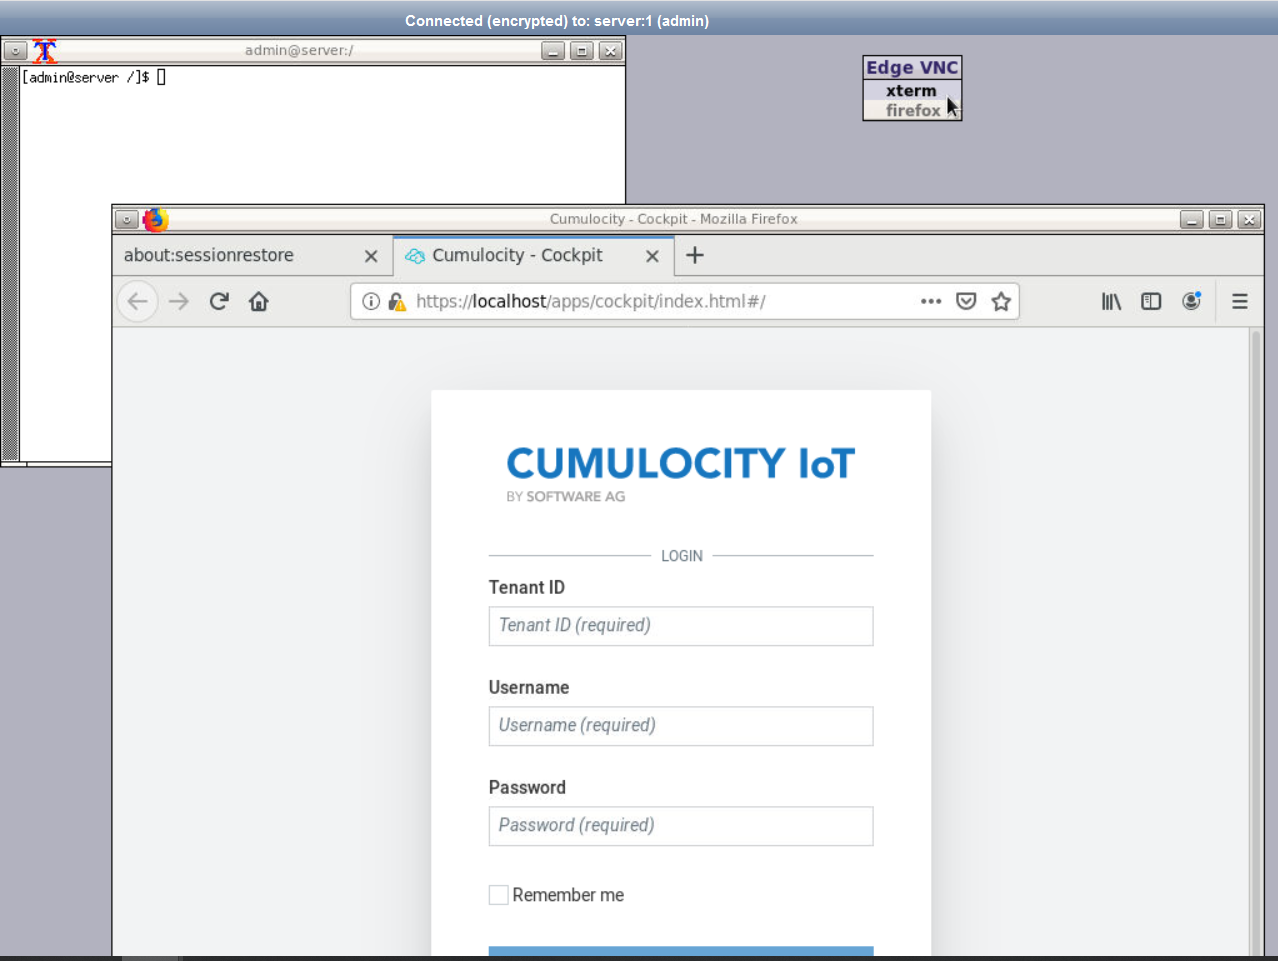
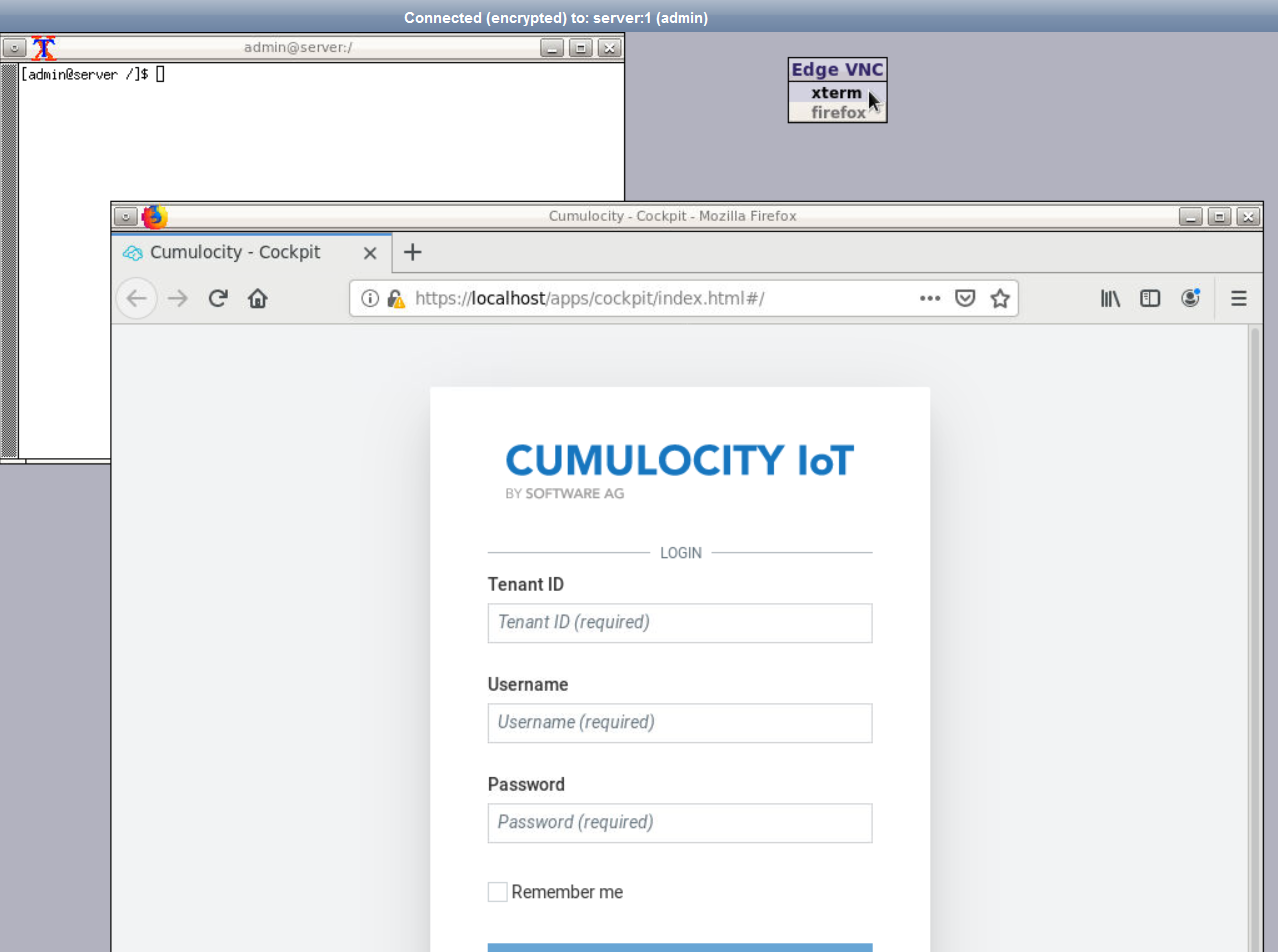
Incorporated comments from Chris and Beate.

diff --git a/content/edge/usage-bundle/connecting-cloud.md b/content/edge/usage-bundle/connecting-cloud.md
@@ -33,7 +33,7 @@ Once the device is connected, the device status changes to **Pending acceptance*
 
 ### Accessing the Edge device from the Cumulocity tenant
 
-The Cumulocity Cloud Remote Access microservice allows you to remotely access the Edge device through a web browser. The remote Edge device is represented as a device in the Device Management application of Cumulocity.
+The Cumulocity Cloud Remote Access microservice allows you to remotely access the Edge device through a web browser. The remote Edge VM is represented as a device in the Device Management application of Cumulocity.
 
 #### Supported protocols
 
@@ -53,11 +53,13 @@ For more information about remote access, see [Cloud Remote Access](/guides/user
 
 ### Accessing the Edge device remotely through VNC
 
-You can access the Edge VM from the Cumulocity tenant by installing the VNC components on your Edge VM. The Edge VM must be connected to the internet to install the VNC components. 
+You can access the Edge VM from the Cumulocity tenant by installing the VNC components on your Edge VM. 
 
 **Info:** Ensure that you have registered your Edge device with the Cumulocity tenant. See [Registering the Edge device with the Cumulocity tenant](/guides/edge/usage/#registering-the-edge-device-with-the-cumulocity-tenant).
 
 #### Step 1: Installing the VNC components
+
+**Info:** The Edge VM must be connected to the internet to install the VNC components.
 
 1. Run the script *vnc-setup.sh*.
 
@@ -91,7 +93,7 @@ To access and connect to the Edge device, you must create a remote access point.
 
 The connection to the Edge VM is established and the GUI appears for the Edge VM. Right-click in the screen to open the desktop components **xterm** and **firefox**.
 
-<img src="/guides/images/edge/edge-vnc-gui-screen.png" alt="Edge VNC" style="max-width: 100%">
+<img src="/guides/images/edge/edge-vnc-gui-screen.png" alt="Edge VNC" style="max-width: 75%">
 
 #### Changing the VNC password
 
